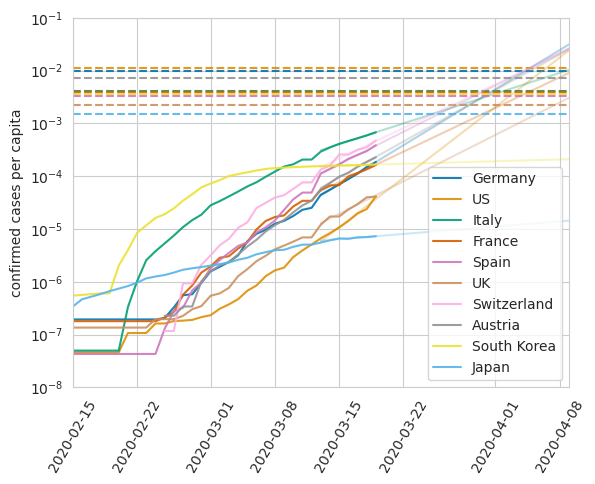
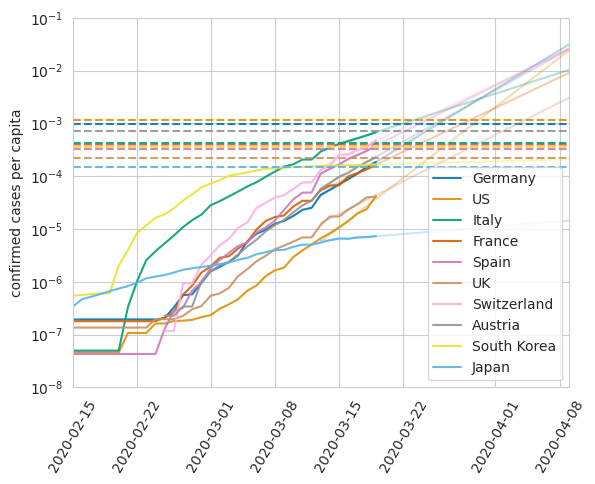
Fix ICU rate estimate

Changed region(s): [[0.121, 0.124, 0.9681, 0.3719], [0.605, 0.3409, 0.6353, 0.3719]]

diff --git a/kovid.py b/kovid.py
@@ -199,7 +199,8 @@ def plot_confirmed(data, country_list, avg=5, date_lim=None, scale='log', foreca
         icus_per_capita = country_list[c][1]
 
         # 80% default occupation, 6% of Covid-19 patients require ICU treatment
-        icu_limit = 0.2*icus_per_capita/0.006
+        icu_rate = 0.06
+        icu_limit = 0.2*icus_per_capita/icu_rate
 
         # Derive date limits if none are given
         if date_lim is None:
@@ -253,7 +254,8 @@ def plot_estimated_from_delay(data, country_list, avg=5, date_lim=None, scale='l
         icus_per_capita = country_list[c][1]
 
         # 80% default occupation, 6% of Covid-19 patients require ICU treatment
-        icu_limit = 0.2*icus_per_capita/0.01
+        icu_rate = 0.06
+        icu_limit = 0.2*icus_per_capita/icu_rate
 
         # Derive date limits if none are given
         if date_lim is None:
@@ -310,8 +312,8 @@ def plot_estimated_from_deaths(data, country_list, avg=5, date_lim=None, scale='
         icus_per_capita = country_list[c][1]
 
         # 80% default occupation, 6% of Covid-19 patients require ICU treatment
-        death_rate = 0.002
-        icu_limit = 0.2*icus_per_capita/death_rate
+        icu_rate = 0.06
+        icu_limit = 0.2*icus_per_capita/icu_rate
 
         # Derive date limits if none are given
         if date_lim is None:
@@ -321,6 +323,7 @@ def plot_estimated_from_deaths(data, country_list, avg=5, date_lim=None, scale='
         deaths = np.array(ts.Deaths)
 
         # 5 days incubation + 2 days test delay
+        death_rate = 0.002
         estimated = deaths/death_rate/nr_inhabitants
 
         # Extrapolate based on the last 7 days

diff --git a/README.md b/README.md
@@ -39,7 +39,7 @@ The number of deaths per country is considered to be more reliable than the numb
 
 In order to compare different countries, I found it therefore reasonable to estimate the number of actual cases based on the _death rate_ that is found in the countries with the largest test capacities: Germany and South Korea. Here, we have seen approximately 0.2% during exponential growth.
 
-**Note that this estimate only holds true during the exponential growth phase!** This is because the death rate reflects the number people that died from infections that happened a few days earlier. To understand this, assume that the spread would suddenly stop and the number of new infections would suddenly be zero. The number of deaths would then still increase because people were already sick. Thus, 0.2% is not the true death rate of COVID-19 but only the fraction of the current number of deaths in relation to the currently registered cases during the exponential phase.
+**Note that this estimate only holds true during the exponential growth phase!** This is because the death rate reflects the number people that died from infections that happened a few days earlier. To understand this, assume that the spread would suddenly stop, i.e. the number of new infections would suddenly be zero. The number of deaths would then still increase because people were already sick. Thus, 0.2% is not the true death rate of COVID-19 but only the fraction of the current number of deaths in relation to the currently registered cases during the exponential phase.
 
 ### spread rate
 
